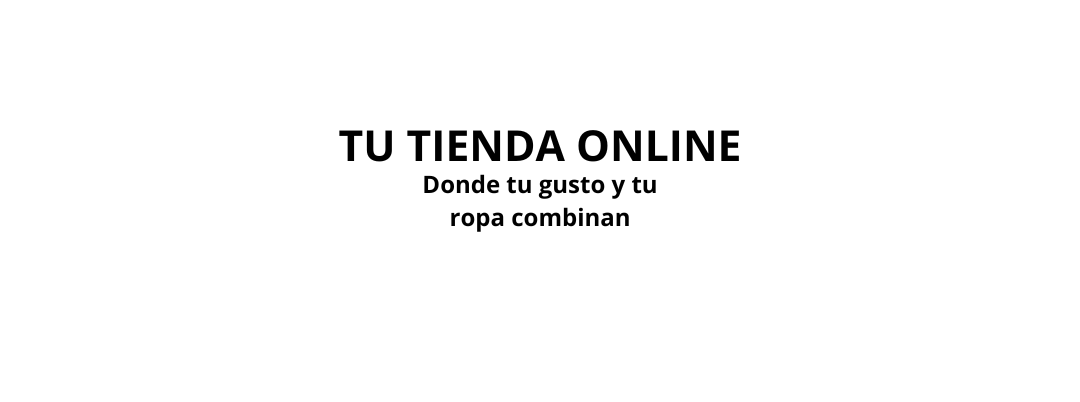
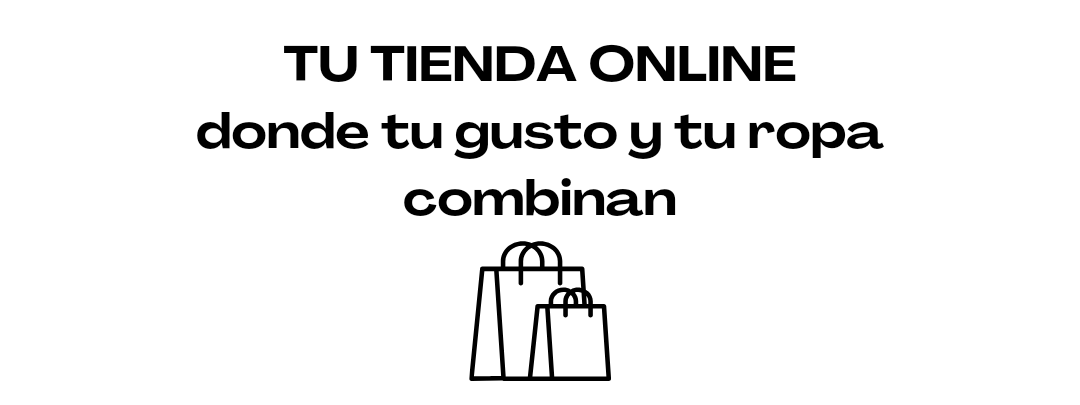
falta carrito y orden de compra

Changed region(s): [[0.1833, 0.2687, 0.825, 0.5672], [0.2444, 0.0896, 0.7333, 0.209], [0.4278, 0.597, 0.5806, 0.9552]]

diff --git a/src/app/tienda/components/allProducts.js b/src/app/tienda/components/allProducts.js
@@ -7,6 +7,7 @@ import { initializeApp } from 'firebase/app';
 import styles from './CardTienda.module.css';
 import { FontAwesomeIcon } from '@fortawesome/react-fontawesome';
 import { faRotateRight } from '@fortawesome/free-solid-svg-icons';
+import { faPlus } from '@fortawesome/free-solid-svg-icons';
 const firebaseConfig = {
     apiKey: "AIzaSyDRZu2-vVF7E_5jAjTS8la9tqlapofky-4",
     authDomain: "dealdress-90f47.firebaseapp.com",
@@ -40,17 +41,23 @@ const ProductList = () => {
 
     const renderProducts = () => (
         filteredProducts.map(item => (
-           <section className={styles.cardProduct} key={item.id}>
-               <article>
-                   <div>
-                       <img src={item.image}/>
-                        <h2>{item.nombre}</h2>
-                        <p>$ {item.precio}</p>
+            <section className={styles.cardProduct} key={item.id}>
+                <Link href={`/tienda/${item.id}`}>
+                    <article>
+                        <img src={item.image}/>
+                    </article>
+                </Link>
+                <article className={styles.cardProductDiv}>
+                    <div>
+                        <article>
+                            <h2>{item.nombre}</h2>
+                            <p>$ {item.precio}</p>
+                            <p>Modelo: {item.modelo}</p>
+                        </article>
                     </div>
                     <div className={styles.cardProduct__link}>
-                        <button>Agregar al carrito</button>
-                       <Link href={`/tienda/${item.id}`}>👁Ver mas detalles</Link>
-                   </div>
+                        <button><FontAwesomeIcon icon={faPlus} /></button>
+                    </div>
                 </article>
             </section>
         ))
@@ -92,6 +99,7 @@ const ProductList = () => {
                     <li onClick={() => setSelectedCategory('jeansHombreUrbano')}>Jeans</li>
                     <li onClick={() => setSelectedCategory('remerasHombreUrbano')}>Remeras</li>
                     <li onClick={() => setSelectedCategory('buzosHombreUrbano')}>Buzos</li>
+                    <li onClick={() => setSelectedCategory('camperasHombreUrbano')}>Camperas</li>
                 </div>
                 <div>
                     <big>Deportivo</big>
@@ -104,6 +112,11 @@ const ProductList = () => {
                 <em>Calzado</em>
                 <div>
                     <big>Urbano</big>
+                    <li onClick={() => setSelectedCategory('botasUrbanas')}>Botas</li>
+                </div>
+                <div>
+                    <big>Deportivas</big>
+                    <li onClick={() => setSelectedCategory('botasDeportivas')}>Botas</li>
                 </div>
                 </ul>
             </div>

diff --git a/src/app/tienda/[id]/page.jsx b/src/app/tienda/[id]/page.jsx
@@ -5,6 +5,9 @@ import { initializeApp } from 'firebase/app';
 import { useParams } from 'next/navigation'
 import { getProductById } from '../components/productsQuery';
 import Link from 'next/link';
+import styles from './InfoProduct.module.css';
+import { FontAwesomeIcon } from '@fortawesome/react-fontawesome';
+import { faTruckMoving } from '@fortawesome/free-solid-svg-icons';
 const firebaseConfig = {
   apiKey: "AIzaSyDRZu2-vVF7E_5jAjTS8la9tqlapofky-4",
   authDomain: "dealdress-90f47.firebaseapp.com",
@@ -31,15 +34,36 @@ const Product = () => {
     },1000)  
   })
   const renderProducts = () => (
-    <div>
-      <div>
+    <div className={styles.sectionProductInfo}>
+      <div className={styles.historyProductInfo}>
         <Link href='/tienda'>
           <span>TIENDA - </span>
         </Link>
         <span>{product.nombre}</span>
       </div>
-      <h1>{product?.nombre}</h1>
-      <p>$ {product?.precio}</p>
+      <div className={styles.infoProduct}>
+        <img src={product?.image}/>
+        <div className={styles.intInfoProduct}>
+          <h1>{product?.nombre}</h1>
+          <p>$ {product?.precio}</p>
+          <p>Modelo: {product?.modelo}</p>
+          <div>
+            <p>ENVIOS POR <a href="https://www.andreani.com/#!/personas">ANDREANI</a><FontAwesomeIcon icon={faTruckMoving} /></p>
+          </div>
+          <div className={styles.tallesInfoProduct}>
+            <label htmlFor="">Talle:</label>
+          </div>
+          <br />
+          <br />
+          <div>
+            <button>agregar al carrito</button>
+          </div>
+          <br />
+          <br />
+          <br />
+          <span>Vas a poder sumar y restar cantidades en el carrito.</span>
+        </div>
+      </div>
     </div>
 )
   return(

diff --git a/src/app/tienda/components/CardTienda.module.css b/src/app/tienda/components/CardTienda.module.css
@@ -5,25 +5,41 @@
     margin-top: 7%;
     gap: 2rem;
     padding: 2rem;
+    color: black;
 }
 .cardProduct{
-    width: 500px;
-    text-align: center;
-    border: 1px solid #ccc;
+    border: 1px solid;
+    border-radius: 16px;
     padding: 1rem;
+    background-color: #fff;
+    text-align: center;
 }
-.cardProduct article div{
-    margin: 2rem;
-}
-.cardProduct article div button{
+.cardProduct__link button{
+    border-radius: 100%;
+    background-color: #fff;
     cursor: pointer;
-}
-.cardProduct__link{
+    font-size: 28px;
+    padding: 10px;
+    border: none;
     display: flex;
-    flex-direction: column;
 }
-
-
+.cardProductDiv{
+    display: flex;
+    background-color: rgb(71, 71, 216);
+    padding: 12px;
+    justify-content: space-around;
+    border-radius: 24px;
+    width: 500px;
+}
+.cardProductDiv div article h2{
+    color: #fff;
+}
+.cardProductDiv div article p{
+    font-size: 1.5rem;
+}
+.cardProduct img{
+    width: 50%;
+}
 /*Button categories */ 
 .categoriesButtonClick{
     display: flex;
@@ -34,7 +50,7 @@
     margin-left: 20px;
 }
 .categoriesButton {
-    background-color: #0b4f6c;
+    background-color: rgb(71, 71, 216);
     color: white;
     padding: 10px 20px;
     border-radius: 5px;
@@ -47,7 +63,12 @@
     background-color: grey;
     position: absolute; 
     border: 1px solid #ddd;
-    margin-top: 25%;
+    margin-top: 35%;
+}
+.categoriesPanel div big{
+    display: flex;
+    align-items: center;
+    margin-right: 12px;
 }
   
 .categoryList {
@@ -56,12 +77,14 @@
 }
 .categoryList div{
     display: flex;
+    padding-top: 12px;
 }
   
 .categoryList li {
     padding: 1rem;
     border: 1px solid;
     cursor: pointer;
+    border-radius: 12px;
 }
 .categoryList li:hover{
     color: red;

diff --git a/src/app/components/HeaderHub.module.css b/src/app/components/HeaderHub.module.css
@@ -18,7 +18,7 @@
     height: 60px;
     width: 300px;
     border-radius: 20px;
-    background-color: #0b4f6c;
+    background-color: rgb(71, 71, 216);
     color: #fff;
     border: none;
     display: flex;
@@ -28,37 +28,31 @@
 .headerHubNavBarList > li:hover{
     transform: translateY(6px);
 }
-.headerHubCarrousel{
-    width: 80%;
-    height: 600px;
-    background-repeat: no-repeat;
-    background-size: cover;
-    animation: carrousel 12s infinite;
-    margin: auto;
-}
-@keyframes carrousel {
-    0%{
-        background-image: url(/CarrouselImg1.png);
-    }
-    25%{
-        background-image: url(/CarrouselImg1.png);
-    }
-    50%{
-        background-image: url(/CarrouselImg2.webp);
-    }
-    85%{
-        background-image: url(/CarrouselImg3.webp);
-    }
-    100%{
-        background-image: url(/CarrouselImg1.png);
-    }
-}
 .headerHubCarrouselMarquee{
     width: 35%;
     margin-left: 37%;
     padding-top: 2%;
     font-size: 18px;
 }
+.carousel {
+    display: flex;
+    align-items: center;
+    justify-content: center;
+}
+  
+.slide {
+    max-width: 100%;
+    height: auto;
+}
+  
+.navButton {
+    font-size: 24px;
+    background: transparent;
+    border: none;
+    cursor: pointer;
+    padding: 0 10px;
+}
+  
 @media screen and (max-width: 900px) {
     .headerHubCarrouselMarquee{
         width: 100%;

diff --git a/src/app/components/HeaderHubCarrousel.jsx b/src/app/components/HeaderHubCarrousel.jsx
@@ -2,9 +2,9 @@ import styles from './HeaderHub.module.css'
 export default function HeaderHubCarrousel() {
     return(
         <section>
-            <article className={styles.headerHubCarrousel}>
-
-            </article>
+            <div>
+                
+            </div>
             <marquee behavior="scroll" direction="left" className={styles.headerHubCarrouselMarquee}>
                 ENVIOS GRATIS EN ROSARIO !!! &nbsp;&nbsp;&nbsp;&nbsp;&nbsp;&nbsp;&nbsp;&nbsp;&nbsp;&nbsp;&nbsp;&nbsp;&nbsp;&nbsp;&nbsp;&nbsp;&nbsp;&nbsp;&nbsp;&nbsp;&nbsp;&nbsp;&nbsp;&nbsp;&nbsp;&nbsp;&nbsp;&nbsp;&nbsp;&nbsp;&nbsp;&nbsp;&nbsp;&nbsp;&nbsp;&nbsp;&nbsp;&nbsp;&nbsp;&nbsp;&nbsp;&nbsp;&nbsp;&nbsp;&nbsp;&nbsp;&nbsp;&nbsp;&nbsp;&nbsp;&nbsp;&nbsp;&nbsp;&nbsp;&nbsp;&nbsp;&nbsp;&nbsp;&nbsp;&nbsp;&nbsp;&nbsp;&nbsp;&nbsp;
                 ENVIAMOS A TODO EL PAIS A DOMICILIO CON ADREANI 🚛 !!! &nbsp;&nbsp;&nbsp;&nbsp;&nbsp;&nbsp;&nbsp;

diff --git a/src/app/tienda/[id]/InfoProduct.module.css b/src/app/tienda/[id]/InfoProduct.module.css
@@ -1,0 +1,48 @@
+.infoProduct{
+    display: flex;
+    justify-content: center;
+    border: 1px solid;
+    width: 50%;
+    margin: auto;
+    border-radius: 20px;
+}
+.infoProduct p {
+    display: flex;
+    flex-direction: column;
+}
+.infoProduct img{
+    padding: 10px;
+    border-right: 1px solid;
+}
+.historyProductInfo{
+    color: white;
+    margin-top: 6%;
+    text-align: center;
+    width: 65%;
+}
+.historyProductInfo span:hover {
+    color: blue;
+    text-decoration:underline;
+}
+.intInfoProduct{
+    display: flex;
+    flex-direction: column;
+    justify-content: center;
+    align-items: center;
+    padding: 15px;
+}
+.intInfoProduct p{
+    padding-top: 20px;
+    font-size: 25px;
+}
+.intInfoProduct div a {
+    color: red;
+}
+.intInfoProduct div a:hover {
+    color: blue;
+    text-decoration:underline;
+}
+.tallesInfoProduct{
+    margin-right: 80%;
+    font-size: 20px;
+}

diff --git a/src/app/tienda/components/CarrouselImgs.jsx b/src/app/tienda/components/CarrouselImgs.jsx
@@ -2,7 +2,7 @@ import styles from './TiendaNavBar.module.css'
 export default function CarrouselImgs() {
     return(
         <section className={styles.bannerTienda}>
-            <img src="/BannerTienda.png" alt="banner tienda" />
+            <img src="/BannerTienda.jpg" alt="banner tienda" />
         </section>
     )
 }

diff --git a/src/app/tienda/components/TiendaNavBar.module.css b/src/app/tienda/components/TiendaNavBar.module.css
@@ -1,6 +1,6 @@
 .navBar{
-    padding-top: 35px;
-    height: 70px;
+    padding-top: 5%;
+    height: 140px;
     width: 40%;
     margin-left: 50%;
 }
@@ -13,4 +13,9 @@
 .bannerTienda{
     display: flex;
     justify-content: center;
+    max-width: 100%;
+}
+.bannerTienda img{
+    width: 100%;
+    height: auto;
 }

diff --git a/src/app/globals.css b/src/app/globals.css
@@ -4,7 +4,7 @@ html{
 body{
   font-family: Arial, sans-serif;
   color: #ffff;
-  background-image: url(/fondoPage.jpg);
+  background-image: url(/fondoPage.png);
   background-repeat: no-repeat;
   background-size: cover;
 }

diff --git a/src/app/tienda/components/ShoppingCartModal.module.css b/src/app/tienda/components/ShoppingCartModal.module.css
@@ -1,6 +1,6 @@
 /* Estilos para el botón de abrir el modal */
 .openButton {
-    background-color: #0b4f6c;
+    background-color: rgb(71, 71, 216);
     color: white;
     border: none;
     border-radius: 12px;

diff --git a/src/app/components/MainHub.module.css b/src/app/components/MainHub.module.css
@@ -36,7 +36,7 @@
     height: 45px;
     width: 300px;
     border-radius: 20px;
-    background-color: #0b4f6c;
+    background-color: rgb(71, 71, 216);
     color: #fff;
     border: none;
     display: flex;

diff --git a/src/app/components/ProductsHub.module.css b/src/app/components/ProductsHub.module.css
@@ -25,7 +25,7 @@
     height: 60px;
     width: 200px;
     border-radius: 20px;
-    background-color: #0b4f6c;
+    background-color: rgb(71, 71, 216);
     color: #fff;
     border: none;
     display: flex;
